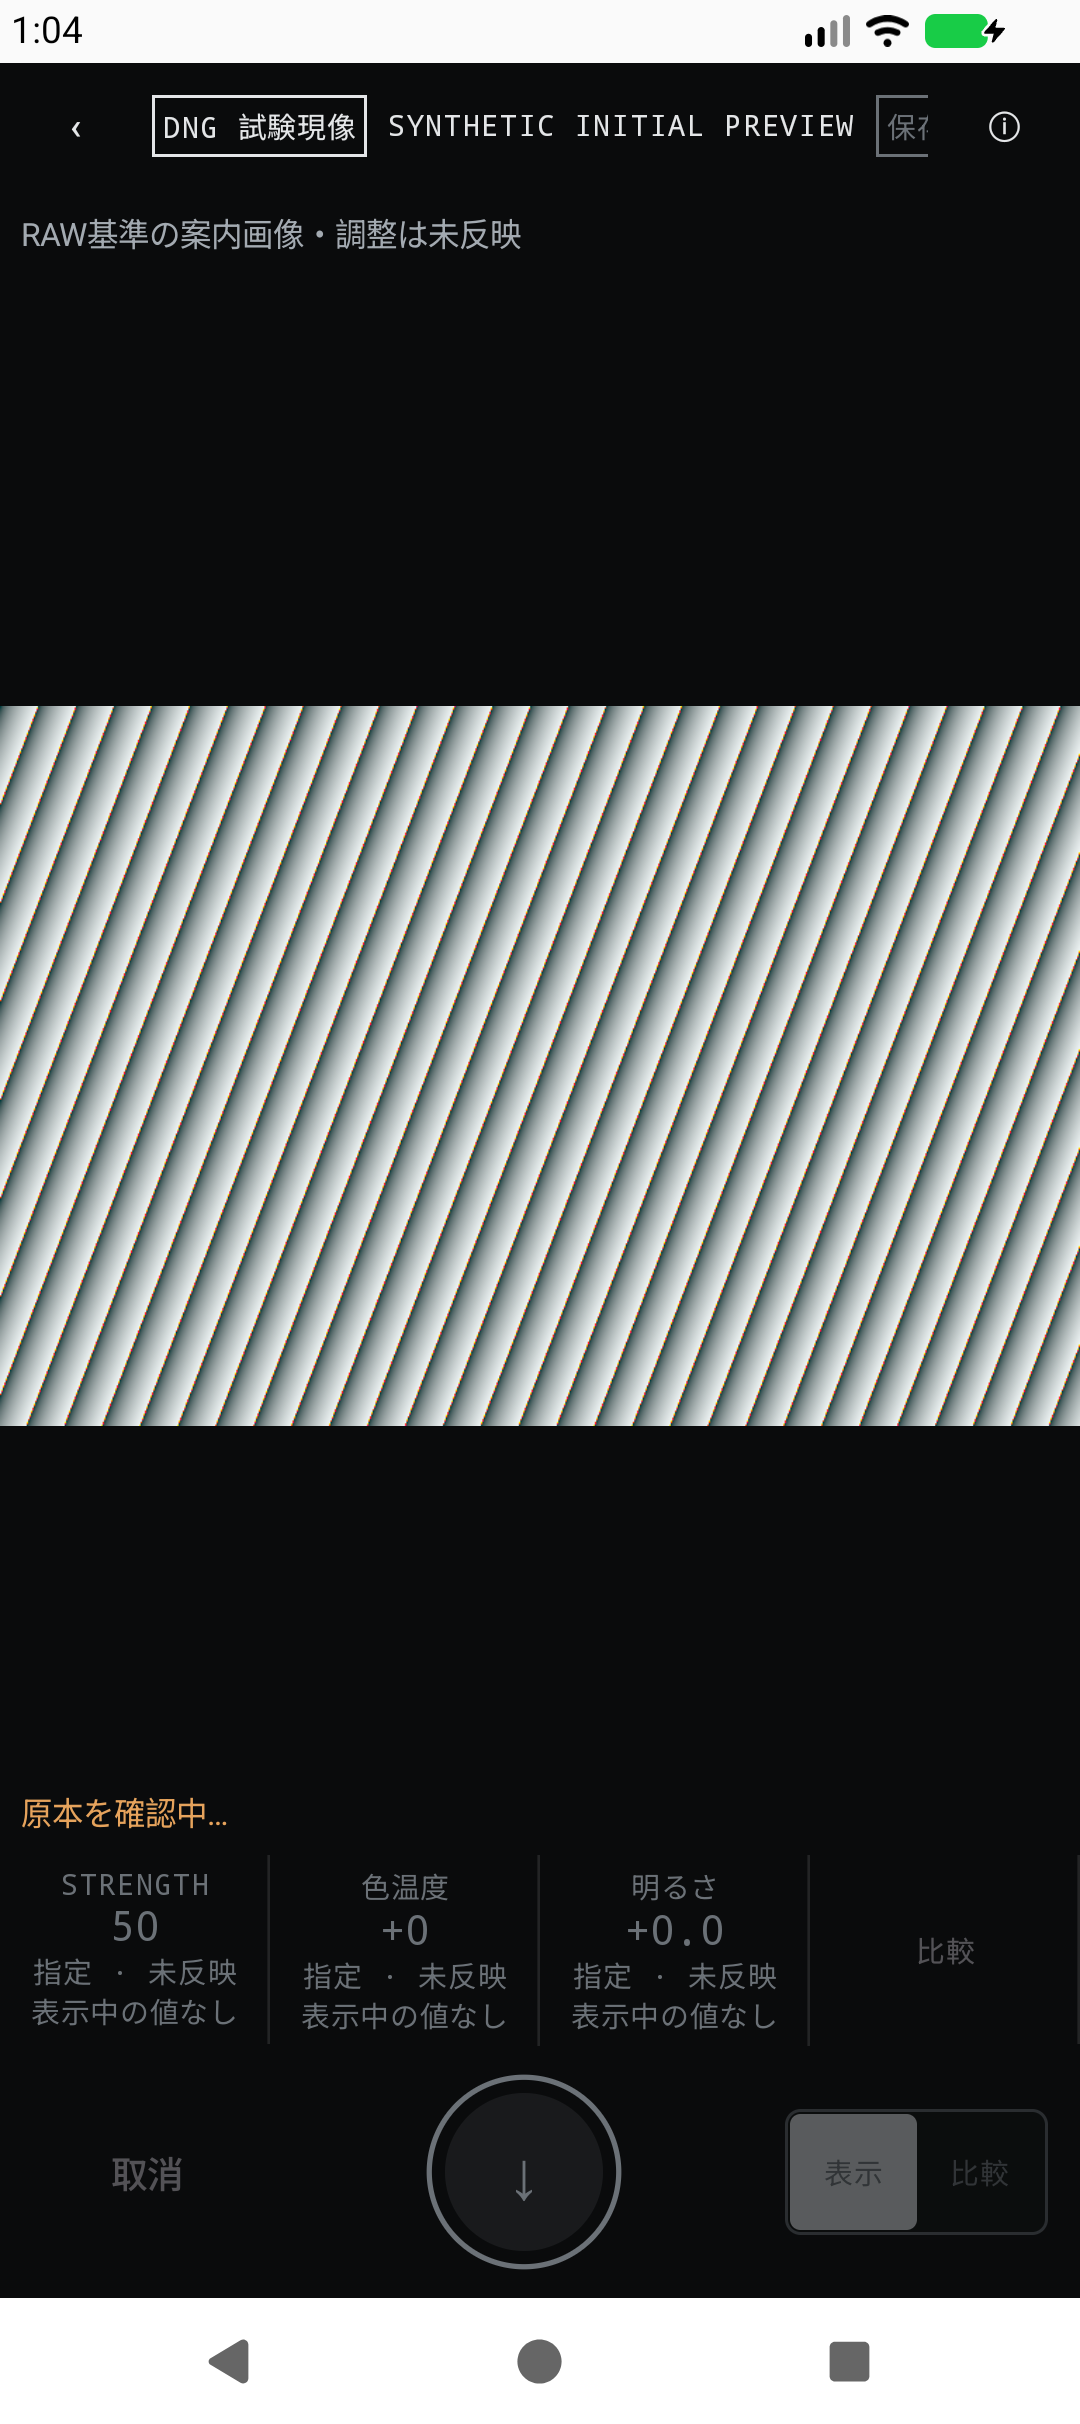
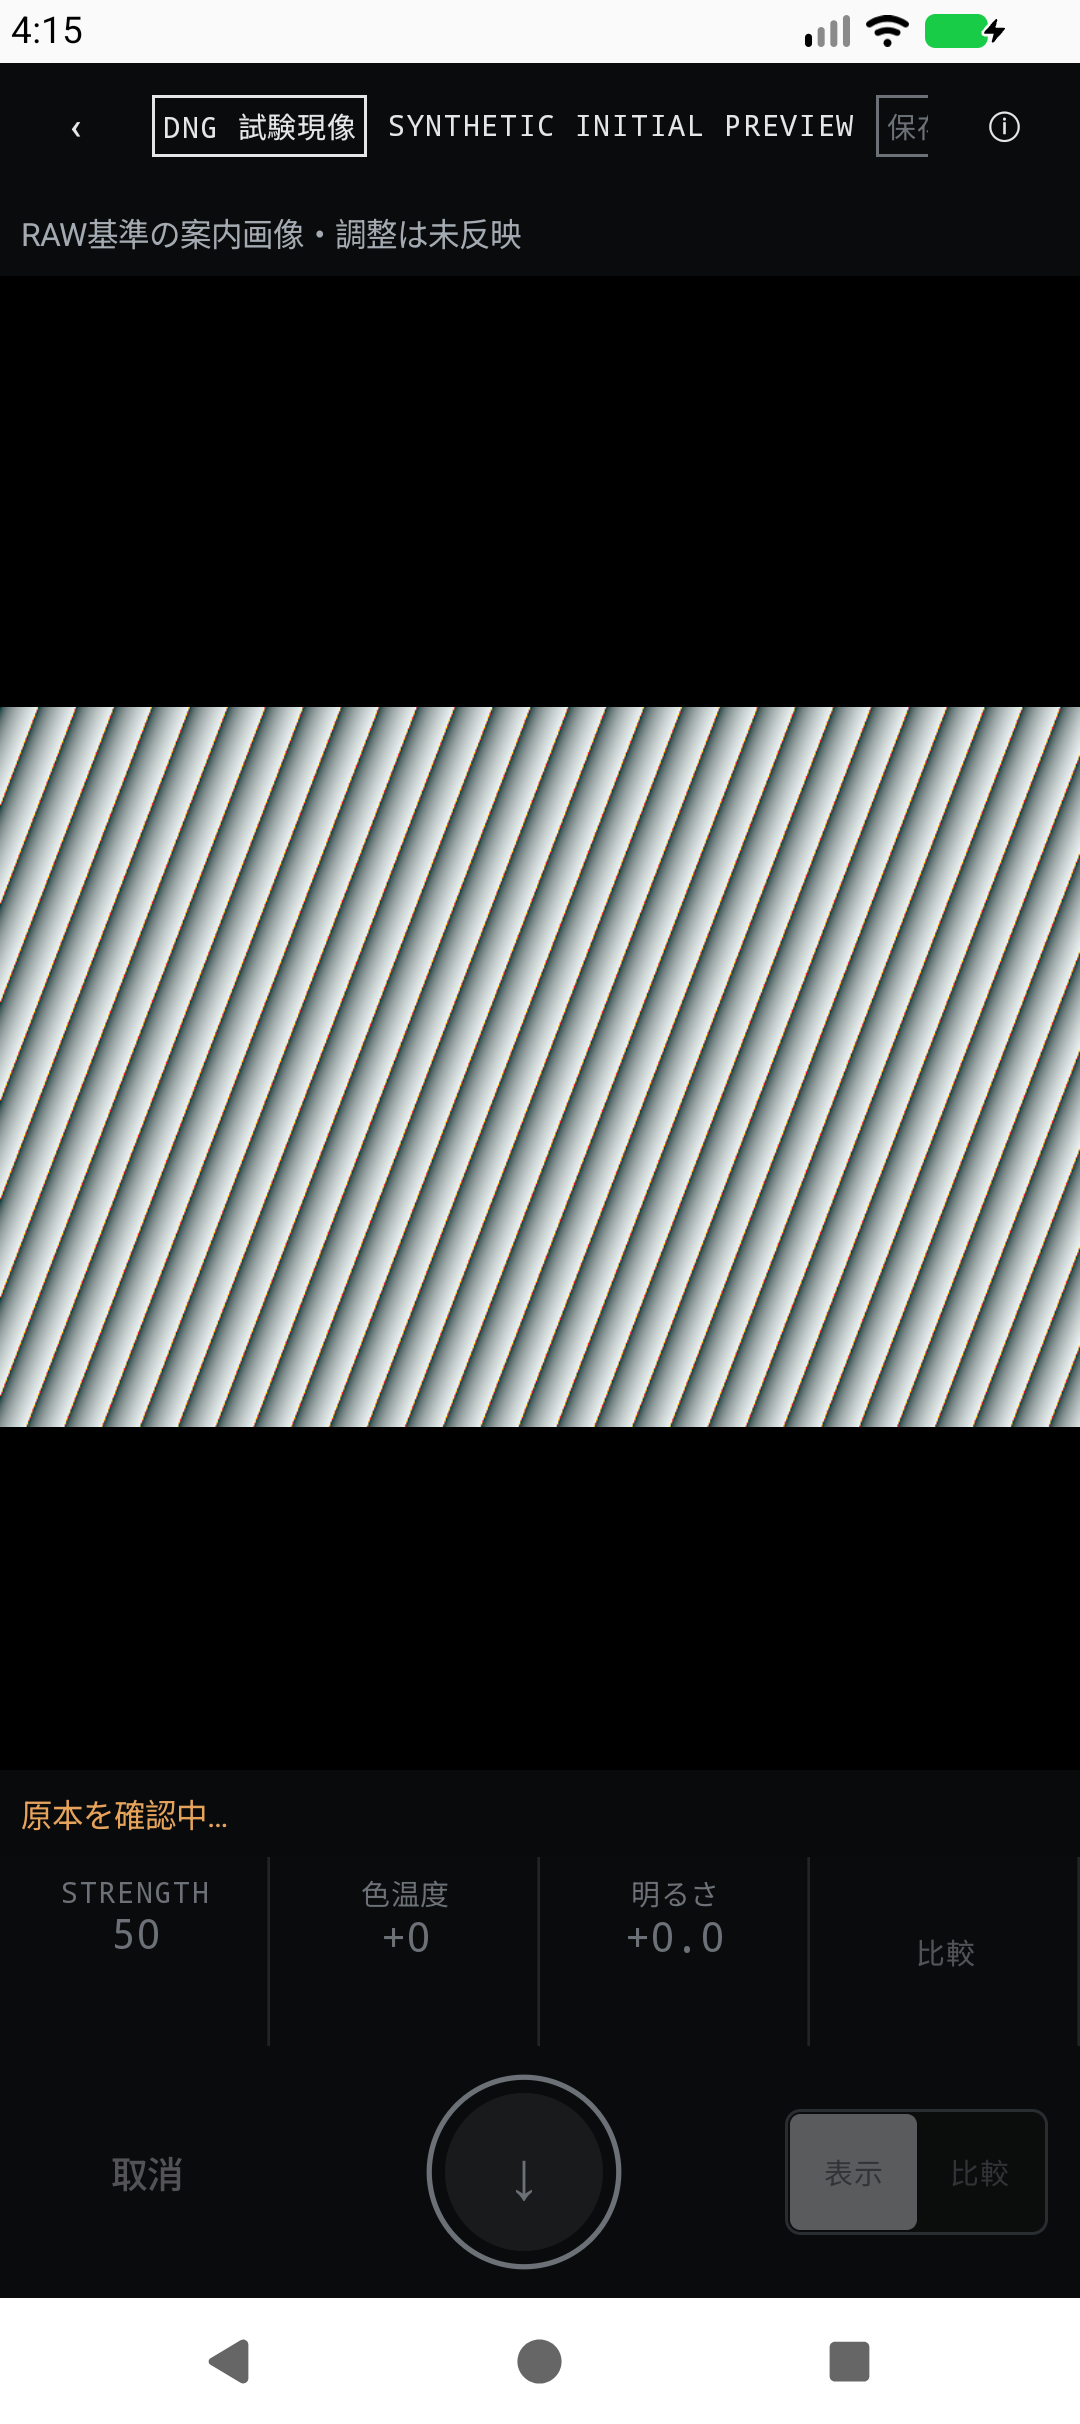
Publish synthetic guide baseline and exact visual comparison

diff --git a/docs/ui-review/initial-preview-guide/README.md b/docs/ui-review/initial-preview-guide/README.md
@@ -1,28 +1,36 @@
-# 初回案内表示: half 比較版の匿名合成画像
+# 初回案内・長押し基準・現像結果の比較
 
-## 撮影条件と読み方
+匿名合成 DNG（1536×1024）の同一入力。実写真ではない。撮影 source は `1542c202908f49ae7812b23ff41bc256b70f3756`、AOSP AVD の原PNGは1080×2424。画像の編集・再圧縮なし。
 
-- 匿名合成1536×1024入力。実写真・個人の原本ではない。
-- portrait AVD のスクリーンショット1080×2424。PNG原bytesを変更せず収録した。
-- half比較ONの版で、guideとexactを別時点に取得した。half既定OFFの版の画面証拠ではない。
-- 画面を確認するためのhold-runであり、性能計測とは別走行。2枚から待ち時間やちらつきの長さを推定しない。
-- 元source `61a678b1` 以降でUI同一の比較用画面。後続sourceの性能・動作検証を代替しない。
-- guideはRAW基準の未調整案内像をFit表示する。FULL AHD exactは調整済み現像結果であり、案内像との画素一致は要求しない。
-- 実写・実機の画質、速度、色、画角の一致を証明するものではない。採否・マージ承認とは別の比較資料。
+| 仮画像: RAW half案内、調整なし | 実際の長押し: 撮影時WB・調整なし | 本来の表示: FULL AHD、調整あり |
+| --- | --- | --- |
+| ![RAW half案内](guide.png) | ![実長押し基準](baseline.png) | ![FULL AHD現像結果](exact.png) |
 
-## 匿名合成: half案内（未調整）
+原寸: [仮画像](guide.png) / [長押し基準](baseline.png) / [本来の表示](exact.png)
 
-![匿名合成: half案内（未調整）](guide.png)
+## 比較の意味
 
-## 匿名合成: FULL AHD exact（調整済み）
+- 仮画像は埋込JPEGでも保存済JPEGでもなく、同じsnapshotのRAW半解像度から得た案内像。通常製品ではhalf既定OFF。これは明示した合成試験からhalfを呼ぶ撮影用hold-runであり、通常OFF製品でhalfが自動表示される証拠ではない。
+- 長押しは実入力イベントでGPUの基準表示へ切替。本来の表示は既存の既定調整値による結果。仮画像と基準に大きな全体の色かぶりは目視で認めず、斜線の縁・階調には差がある。本来の表示はより明るい。実写の色やPixel画質の合格ではない。
+- WB設定は変更していない。[共通native decoder](../../../app/src/main/cpp/dng_decoder.cpp) はhalf/FULL双方でlinear sRGB (`output_color=1`)、16bit、撮影時WB（AsShot互換分岐を含む）を使用。[案内変換](../../../app/src/main/java/dev/cinematic/p0/photoroll/TrialDisplayPixels.kt) はclamp+sRGB符号化のみで、追加WB・露出・lookを行わない。デモザイクと縮小は異なるため画素一致は要求しない。
+- 同座標の画像矩形 x=[0,1080), y=[706,1426) におけるRGB各channel絶対差の平均（0–255）は、仮画像対基準 **6.4122**、本来対基準 **37.3402**。最大channel差はそれぞれ222、137。混合layout/semantics観測から中央3:2領域を算出したscreen-space指標であり、色差ΔEでもWB一致判定でもない。境界1pxや再サンプル差も含む。
 
-![匿名合成: FULL AHD exact（調整済み）](exact.png)
+## 画面と保存の確認
+
+- 仮表示中の3値は薄い表示のみ。「指定・未反映」「表示中の値なし」はない。
+- captionは仮案内、実長押し基準、現像結果を区別。上下の画像背景は3状態とも黒。
+- guide/exact/baselineの混合観測領域は全て `(0,276)-(1080,1857)`。これはlayoutとsemanticsを組み合わせた観測で、描画画素の境界そのものの証明ではない。原PNGも目視確認した。
+- 仮表示中の保存actionはdisabled、実tapで保存callbackは0回。View境界の確認であり、Editor/save-owner全体の保存E2Eとは区別する。仮画像を保存入力には使用しない。
+- artifact-only撮影1件と比較OFF製品接続E2E4件が成功。撮影用entryはparameter-node検査を行わないため、厳格UI試験全体の合格や速度測定には数えない。以前のclass/node探索失敗と、status overlayによりaccessibility下端が87px clipされた失敗は履歴として保持した。後者は製品UIを変更せず実layout観測を追加した。
+- 同じsourceで既存の厳格UI試験も別runで成功（24.77秒）。3値・有効状態・位置/サイズ・viewport・黒背景・長押し復帰のassertを保持したまま通過。上の公開画像はartifact-only runの原PNGであり、厳格試験の画像へ差し替えていない。
+- 実機確認、half採否、本人の画面承認、最新headの通常ID回帰/CI/最終レビューは別ゲート。
 
 ## 原bytesの照合
 
-元PNGと収録PNGのbytesおよびSHA-256一致を確認した。画像編集・再圧縮・縮小なし。
+PNGにEXIF・text chunkがないことと、取得ファイルとのSHA-256一致を確認。
 
 | ファイル | bytes | SHA-256 |
 | --- | ---: | --- |
[5 lines of base64/hex data omitted]
